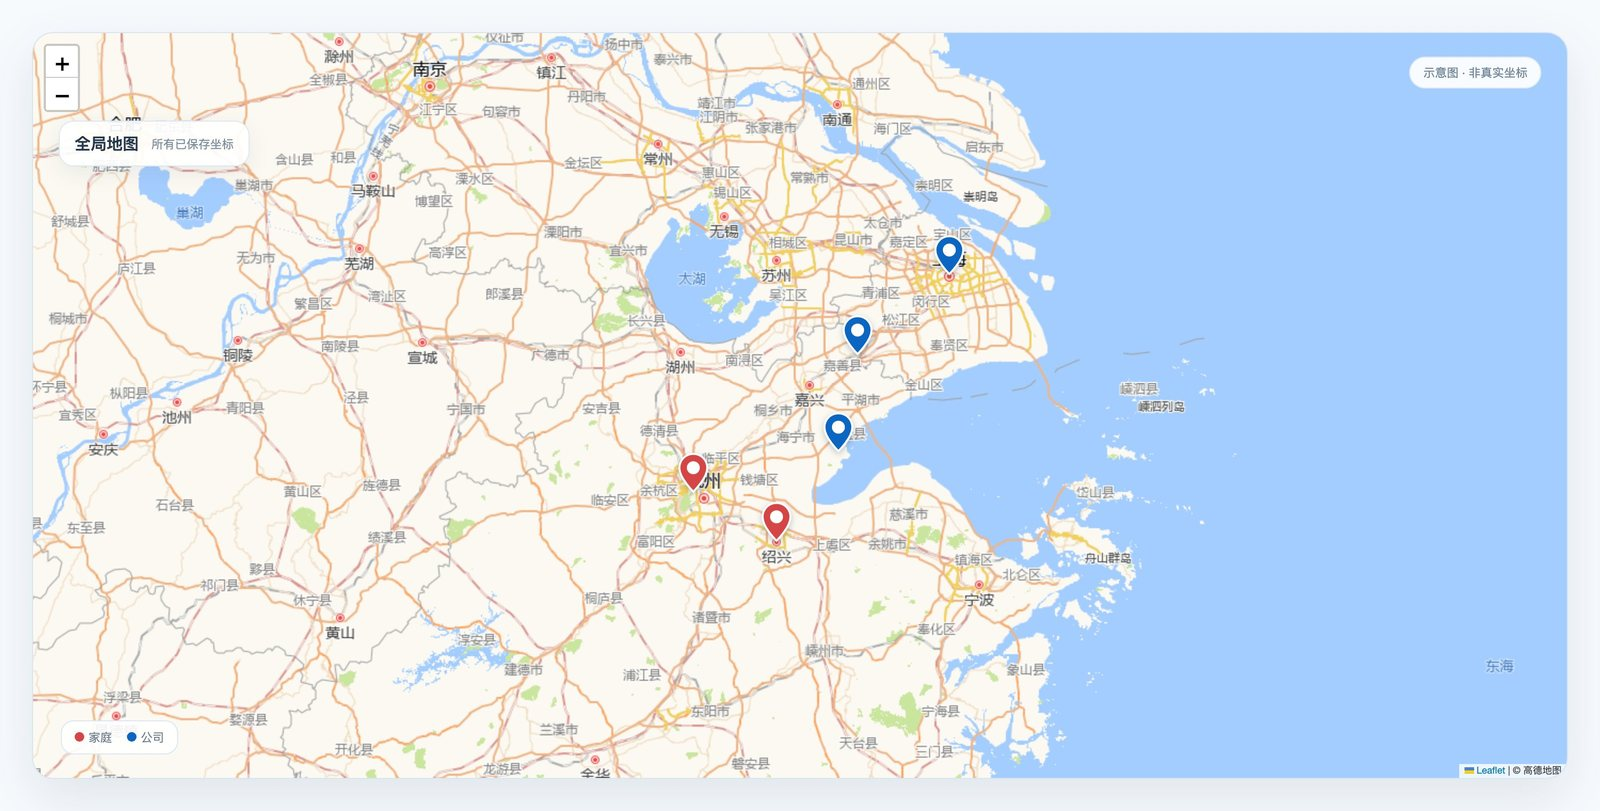
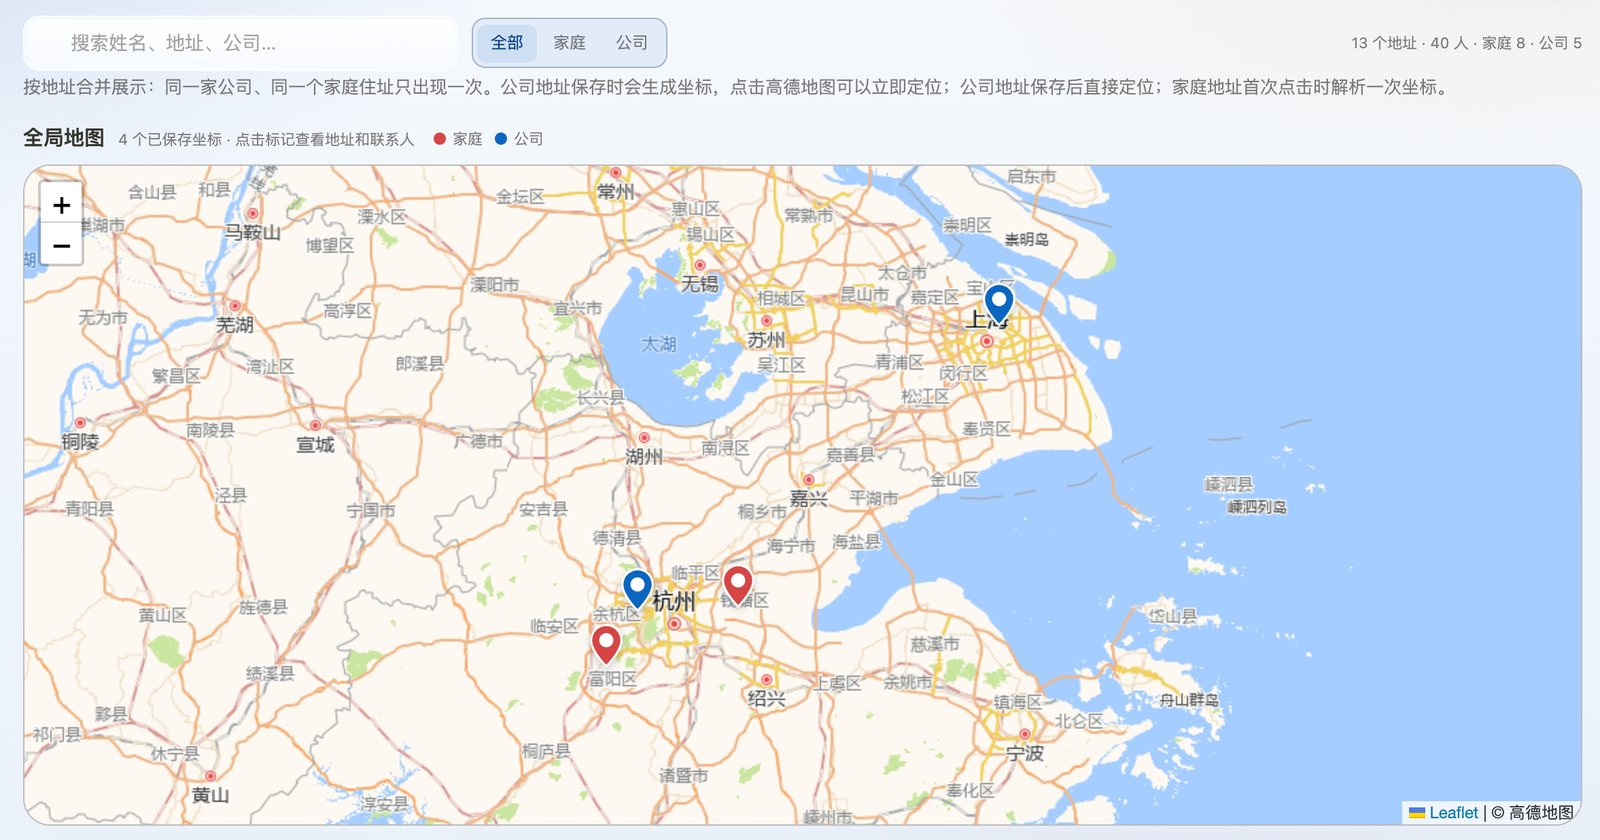
Restore historical map and graph images

diff --git a/README.md b/README.md
@@ -2,70 +2,127 @@
 
 # Mankeep人脉
 
-在思源笔记里管理联系人、关系、组织经历、生日、互动与往来记录。一人一篇文档，结构化资料保存在思源原生数据库里。
+在思源笔记里管理联系人、关系、组织经历、生日与往来记录。
+
+**一人一篇文档，结构化资料保存在思源原生数据库里。**
 
 
-## 亮点
+本地优先 · 原生数据库 · 三种主题 · 可导出、可备份、无遥测
 
-- 联系人、组织、关系图谱、日历和地图集中在一个工作台
-- 分组色头像、两页人物详情、分页联系人列表
-- 学校院系 / 企业部门、组织经历、Logo 和工商信息
-- 互动记录同步到每个人物文档的「往来记录」
-- 家庭 / 公司地址精准选点，全局地图集中展示
-- 三种主题：领英蓝、暖橘、松绿
-- 图谱隐私模式与 6 倍 PNG 导出
-- vCard / JSON 备份，互动、账单、纪念日、组织档案自动镜像到「人脉数据备份」
+## 为什么是 Mankeep
+
+- **不是通讯录孤岛**：每个联系人同时拥有一篇思源人物文档和一行数据库记录，既能在插件里管理，也能用搜索、双链、引用和同步。
+- **关系看得见**：相关人、学校、单位、团体和经历连成关系图谱，支持聚焦、搜索、隐私模式和导出图片。
+- **资料留得住**：互动、纪念日、账单、组织档案与 Logo 自动镜像到「人脉数据备份」；卸载插件后仍可从保留的文档和数据库恢复。
 
 ## 特色功能
 
-### 联系人
+### 首页与联系人
 
-卡片 / 表格、分页、搜索、分组筛选、正序倒序；详情分「资料」和「互动与往来」两页，电话可拨号、邮箱可发信、家庭地址可打开所选地图。
+| 能力 | 说明 |
+| --- | --- |
+| 首页仪表盘 | 联系人数、近期生日、待联系、近期联系一屏掌握 |
+| 快速搜索 | 首页顶栏按姓名/英文名搜索，回车查看全部结果 |
+| 卡片 / 表格 | 两种列表视图，支持分组、标签、正序/倒序和分页 |
+| 分组色头像 | 头像颜色与关系图谱分组一致，名字反白更醒目 |
+| 两页详情 | 第一页资料/组织经历/纪念日，第二页互动记录与往来账单 |
+| 一键联系 | 电话直接拨号、邮箱直接发信、家庭地址打开所选地图 |
 
-### 组织
+### 组织与经历
 
-学校、单位/企业、政府、团体独立建档；学校维护院系，企业维护部门；记录院系/部门、职位/学历、起止日期和状态；企业支持工商信息。组织详情只展示办公地址。
+- 学校、单位/企业、政府、团体独立建档，支持 Logo、简称、地址、备注。
+- 学校可维护院系，企业可维护部门；添加经历时直接选择。
+- 每段经历支持院系/部门、职位/学历、开始/结束日期和状态。
+- 企业可记录成立时间、注册资本、实缴资本、法人、官网等工商信息。
+- **组织详情只展示办公地址**，并支持点击地址直接打开所选地图。
 
-### 互动与账单
+### 日历、互动与账单
 
-见面、电话、语音、视频、消息、礼物、其他；支持地点、多人互动、日历新建。往来账单支持欠款方向、金额、到期、结清和逾期。互动会同步到人物文档。
+- 日历按月查看公历/农历生日、纪念日和当天互动。
+- 点击日期可新建互动，多选联系人；同一场聚会分别写入每个人的记录。
+- 互动类型：见面、电话、语音、视频、消息、礼物、其他；见面支持地点。
+- 互动记录会同步到每个人物文档的「往来记录」小节，打开文档即可直接阅读。
+- 纪念日按年重复，首页提前提醒。
+- 往来账单支持金钱/物品/人情、欠款方向、到期时间、结清和逾期状态。
 
 ### 地图
 
-![全局地图示意图](https://cdn.jsdelivr.net/gh/ccztao/siyuan-mankeep@420d9da5a73ea3a8319dd5be77a477ebdfb3693c/screenshots/global-map.jpg)
+![全局地图](screenshots/global-map.jpg)
 
-> 示意图，非真实坐标。
-
-家庭地址和公司地址都可精准选点，保存 6 位坐标；相同家庭地址可复用并共享坐标。地图页按地址合并联系人，全局地图支持家庭红 / 公司蓝标记，点击查看地址和联系人；设置中可选高德 / 百度。
+- 汇总家庭住址和当前在职公司地址，按地址合并展示联系人。
+- 家庭地址和公司地址都支持**精准选点**，保存 6 位 GCJ-02 经纬度。
+- 相同家庭地址可复用已有地址并共享坐标，一家人只需定位一次。
+- **全局地图**把所有已保存坐标集中到一张地图：家庭红色、公司蓝色，点击标记查看地址和联系人。
+- 设置中可选择打开地址时使用**高德地图（默认）或百度地图**。
+- 支持高德 Web 服务 Key，配置后可按小区、道路、POI 精确搜索。
 
 ### 关系图谱
 
-![关系图谱示意图](https://cdn.jsdelivr.net/gh/ccztao/siyuan-mankeep@f878ef823800f9a5509d81e7aea23b8794dd6146/screenshots/graph.jpg)
+![关系图谱](screenshots/graph.jpg)
 
-> 示意图，非真实联系人数据。
+> 图谱已匿名化：联系人显示为「联系人001…」，组织显示为「示例…」，Logo 已移除。
 
-双向关系和 org 经历自动排布；支持聚焦、搜索、缩放、拖拽。隐私模式保留姓氏、隐藏名字；导出 6 倍 PNG，保留主题和 Logo，无点阵背景。
+- 双向关系 + 组织经历，自动排布为紧凑的力导向图谱。
+- 节点大小按连接数，颜色按分组；支持以我为中心、按组织聚焦、搜索高亮。
+- 支持缩放、拖拽、适应页面、重新布局。
+- **隐私模式**保留姓氏、隐藏名字，组织名称保持显示。
+- **导出 PNG**：保留当前主题、连线、节点和组织 Logo，无点阵背景，6 倍分辨率。
 
-### 主题
+### 数据与恢复
 
-![三种主题](https://cdn.jsdelivr.net/gh/ccztao/siyuan-mankeep@f878ef823800f9a5509d81e7aea23b8794dd6146/screenshots/theme-showcase.jpg)
+- vCard 3.0 导入导出，兼容常见 2.1/4.0 写法、折行、GBK、QP 编码。
+- JSON 导出，包含互动、纪念日、账单、组织档案和组织经历。
+- 互动/纪念日/账单/组织档案/Logo 自动镜像到「人脉数据备份」。
+- 删除插件并清理私有数据后，只要保留人物文档、联系人总表数据库和「人脉数据备份」，即可完整恢复业务数据。
+- 支持从备份恢复，也支持一键把已有互动同步到个人文档。
 
-领英蓝 / 暖橘 / 松绿，在设置 → 主题颜色切换。
+### 三种主题
+
+![三种主题](screenshots/theme-showcase.jpg)
+
+领英蓝、暖橘、松绿三种配色，可在设置 → 主题颜色中切换；浅色、深色主题分别适配。
+
+## 界面与交互
+
+Liquid Glass 视觉：半透明玻璃面板、背景模糊、内高光、柔和阴影和胶囊式控件。桌面端通过右上角 Mankeep 图标打开，移动端保留全屏入口。
 
 ## 安装
 
-把本目录（`plugin.json`、`index.js`、`index.css`、`icon.png`、`preview.jpg`、`screenshots/`）放到工作空间的 `data/plugins/siyuan-mankeep/`，重启思源，在「设置 → 集市 → 已安装」启用「Mankeep人脉」。
+1. `pnpm install && pnpm build`
+2. 把 `dist/` 里的内容放到工作空间 `data/plugins/siyuan-mankeep/`
+3. 重启思源，在「设置 → 集市 → 已安装」启用「Mankeep人脉」
+4. 点击顶栏 Mankeep 图标，按向导初始化
 
-首次打开点击右上角 Mankeep 图标，按向导创建「Mankeep」笔记本、`联系人总表` 文档和数据库。已有同名笔记本/文档会复用。
+## 开发
 
-## 数据与恢复
+```bash
+pnpm install
+pnpm dev       # 监听构建到 dev/
+pnpm build     # 生产构建到 dist/
+pnpm check     # TypeScript 类型检查
+pnpm package   # 生成 package.zip
+```
 
-保留人物文档、联系人总表数据库和「人脉数据备份」三样，即可在重装后恢复互动、纪念日、账单、组织档案/经历、Logo、提醒天数和本人设置。
+## 数据存放与恢复
+
+| 数据 | 位置 |
+| --- | --- |
+| 联系人人物文档、总表数据库 | 思源原生文档 / 数据库 |
+| 互动、纪念日、账单、组织档案/经历、家庭坐标 | 插件私有 JSON，并镜像到「人脉数据备份」 |
+| 设置、主题、工作区锚点、高德 Key | 插件私有 JSON |
+| 备份文档 | 普通思源文档「人脉数据备份」 |
 
 恢复步骤：
 
 1. 重新安装插件
-2. 初始化时填写原笔记本名称
+2. 初始化时填写原笔记本名称，复用已有「联系人总表」和数据库
 3. 设置 → 数据出口 → 从备份文档恢复
 
-人物文档和数据库属于思源原生数据；界面主题偏好不在备份中。若「人脉数据备份」也被删除，插件私有数据无法恢复。
+界面主题偏好不在备份中；如果「人脉数据备份」也被删除，插件私有数据无法恢复。
+
+## 已知限制
+
+- 不包含 AI 识别、会议笔记捕获、CardDAV/CalDAV 在线同步。
+- 一个联系人可以有多段组织经历；数据库「单位 / 学校」列只显示当前主组织，完整历史在插件私有数据中。
+- 图谱只画「相关人」和「组织经历」两类关系，不做自动推断。
+- 地图搜索依赖 OpenStreetMap/Photon 或高德 Web 服务 Key；没有 Key 时中国小区/POI 覆盖有限。
